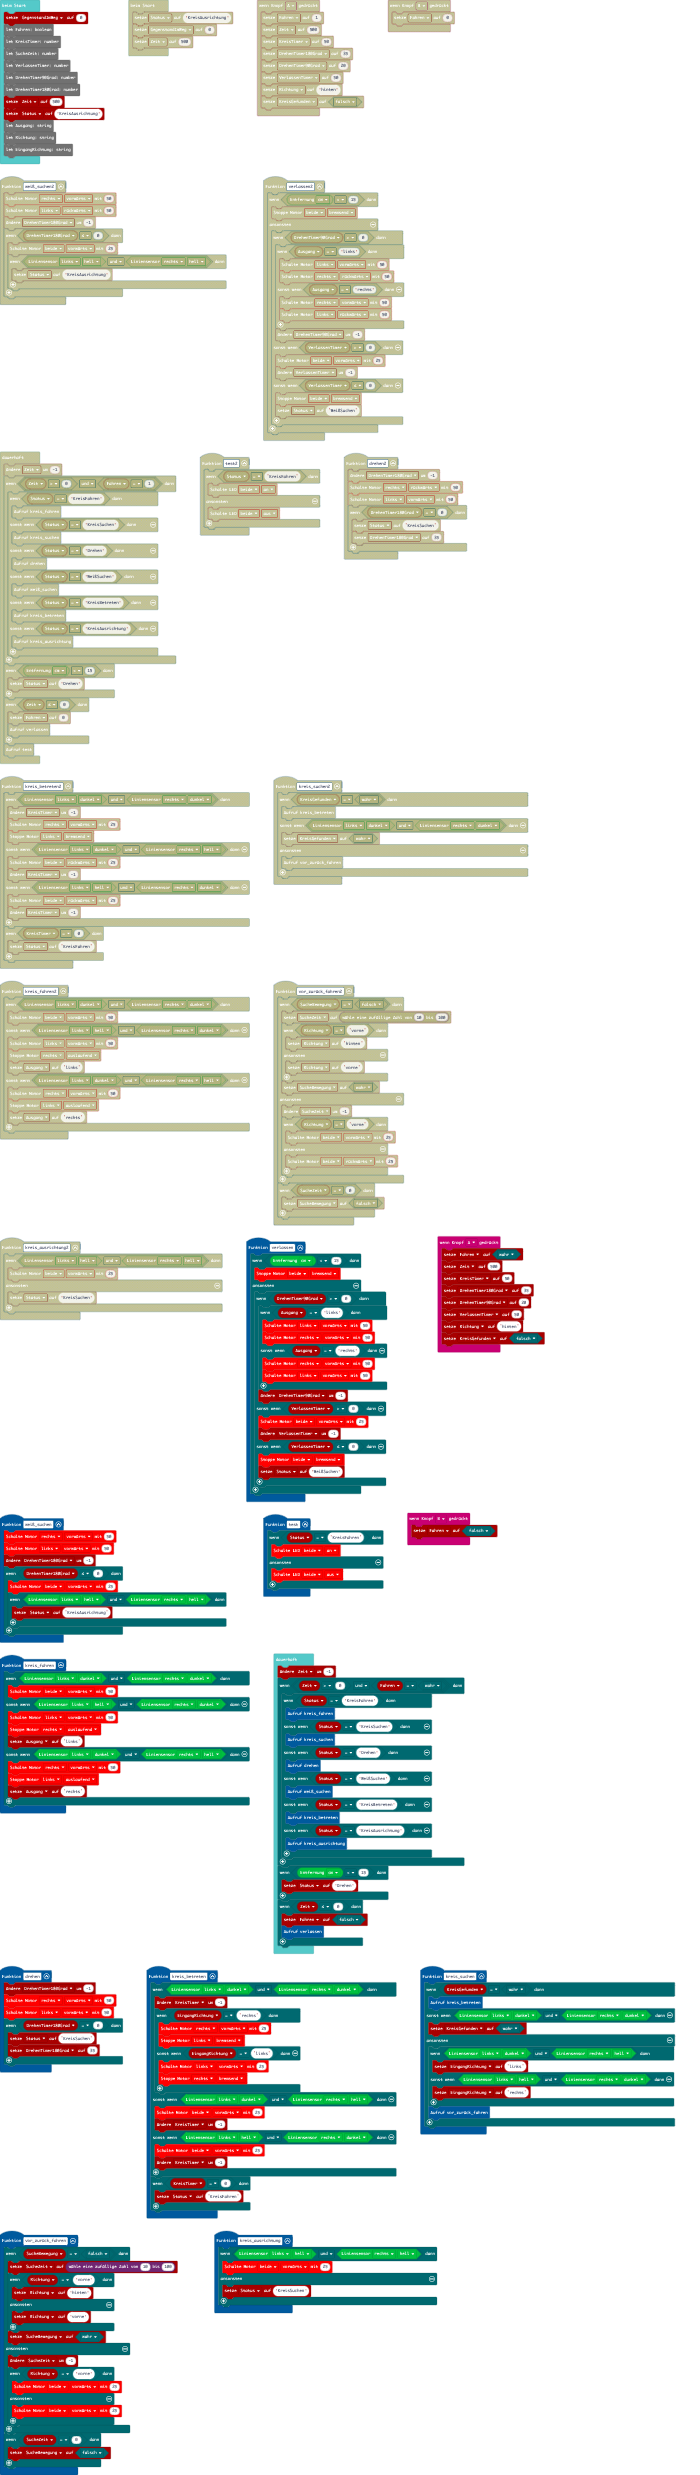
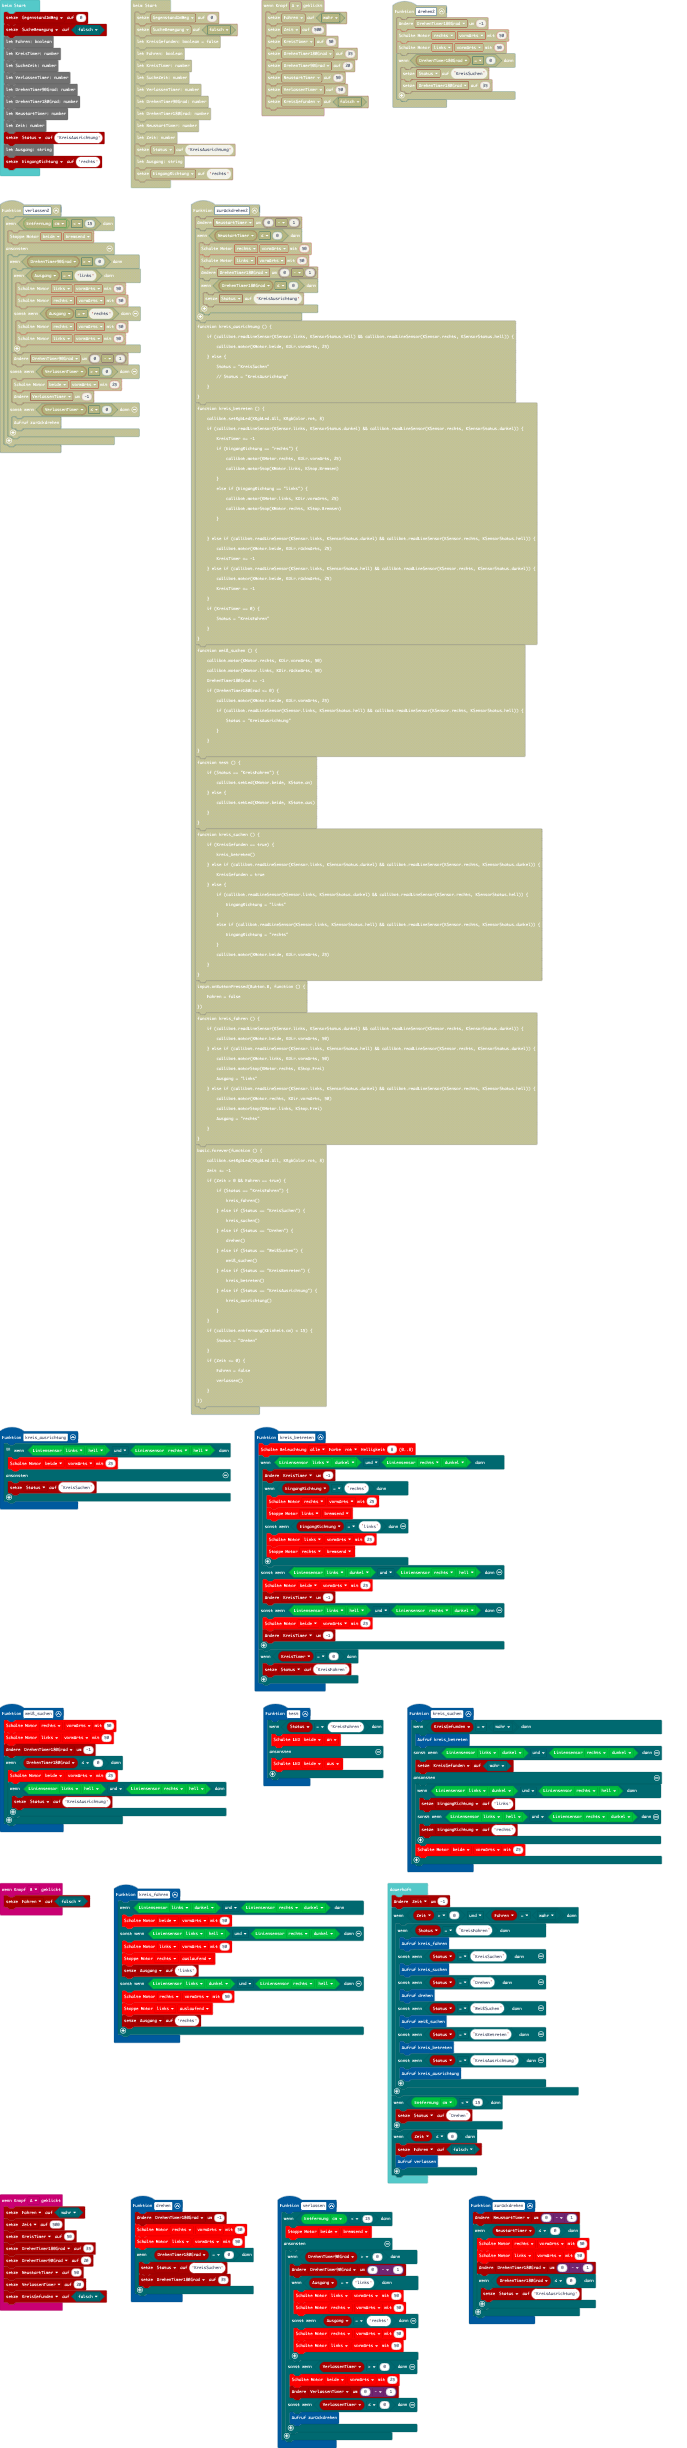
Automatisches Zurückfahren, Knopf A Befehle in Neustart Funktion

diff --git a/main.ts b/main.ts
@@ -9,11 +9,17 @@ let DrehenTimer180Grad: number
 let NeustartTimer: number
 let Zeit: number
 let GegenstandImWeg = 0
-let Status: string  = "KreisAusrichtung"
+let Status: string
 let Ausgang: string
 let EingangRichtung: string = "rechts"
 
 input.onButtonPressed(Button.A, function () {
+    neustart()
+})
+input.onButtonPressed(Button.B, function () {
+    Fahren = false
+})
+function neustart() {
     Fahren = true
     Zeit = 500
     KreisTimer = 50
@@ -22,9 +28,8 @@ input.onButtonPressed(Button.A, function () {
     NeustartTimer = 50
     VerlassenTimer = 50
     KreisGefunden = false
-})
-
-
+    Status = "KreisAusrichtung"
+}
 function drehen () {
     DrehenTimer180Grad += -1
     callibot.motor(KMotor.rechts, KDir.rückwärts, 50)
@@ -34,12 +39,12 @@ function drehen () {
         DrehenTimer180Grad = 35
     }
 }
-
 function verlassen () {
     if (callibot.entfernung(KEinheit.cm) < 15) {
         callibot.motorStop(KMotor.beide, KStop.Bremsen)
     } else {
         if (DrehenTimer90Grad > 0) {
+            DrehenTimer90Grad -= 1
             if (Ausgang == "links") {
                 callibot.motor(KMotor.links, KDir.vorwärts, 50)
                 callibot.motor(KMotor.rechts, KDir.rückwärts, 50)
@@ -47,28 +52,28 @@ function verlassen () {
                 callibot.motor(KMotor.rechts, KDir.vorwärts, 50)
                 callibot.motor(KMotor.links, KDir.rückwärts, 50)
             }
-            DrehenTimer90Grad -= 1
         } else if (VerlassenTimer > 0) {
             callibot.motor(KMotor.beide, KDir.vorwärts, 25)
-            VerlassenTimer += -1
+            VerlassenTimer -= 1
         } else if (VerlassenTimer <= 0) {
             zurückdrehen()
         }
     }
 }
-
 function zurückdrehen() {
-    NeustartTimer -= 1
-    if (NeustartTimer <= 0) {
-        callibot.motor(KMotor.rechts, KDir.vorwärts, 50)
-        callibot.motor(KMotor.links, KDir.rückwärts, 50)
+    if (NeustartTimer >= 0) {
+        callibot.motorStop(KMotor.beide, KStop.Bremsen)
+        NeustartTimer -= 1
+    } else {
         DrehenTimer180Grad -= 1
-        if (DrehenTimer180Grad <= 0) {
-            Status = "KreisAusrichtung"
-        }
+        callibot.motor(KMotor.links, KDir.vorwärts, 50)
+        callibot.motor(KMotor.rechts, KDir.rückwärts, 50)
+    }
+    if (DrehenTimer180Grad <= 0) {
+        callibot.setRgbLed(KRgbLed.All, KRgbColor.rot, 8)
+        neustart()
     }
 }
-
 function kreis_ausrichtung () {
     if (callibot.readLineSensor(KSensor.links, KSensorStatus.hell) && callibot.readLineSensor(KSensor.rechts, KSensorStatus.hell)) {
         callibot.motor(KMotor.beide, KDir.vorwärts, 25)
@@ -78,7 +83,6 @@ function kreis_ausrichtung () {
     }
 }
 function kreis_betreten () {
-    callibot.setRgbLed(KRgbLed.All, KRgbColor.rot, 8)
     if (callibot.readLineSensor(KSensor.links, KSensorStatus.dunkel) && callibot.readLineSensor(KSensor.rechts, KSensorStatus.dunkel)) {
         KreisTimer += -1
         if (EingangRichtung == "rechts") {
@@ -134,9 +138,7 @@ function kreis_suchen () {
         callibot.motor(KMotor.beide, KDir.vorwärts, 25)
     }
 }
-input.onButtonPressed(Button.B, function () {
-    Fahren = false
-})
+
 
 
 function kreis_fahren () {
@@ -153,7 +155,6 @@ function kreis_fahren () {
     }
 }
 basic.forever(function () {
-    callibot.setRgbLed(KRgbLed.All, KRgbColor.rot, 8)
     Zeit += -1
     if (Zeit > 0 && Fahren == true) {
         if (Status == "KreisFahren") {
